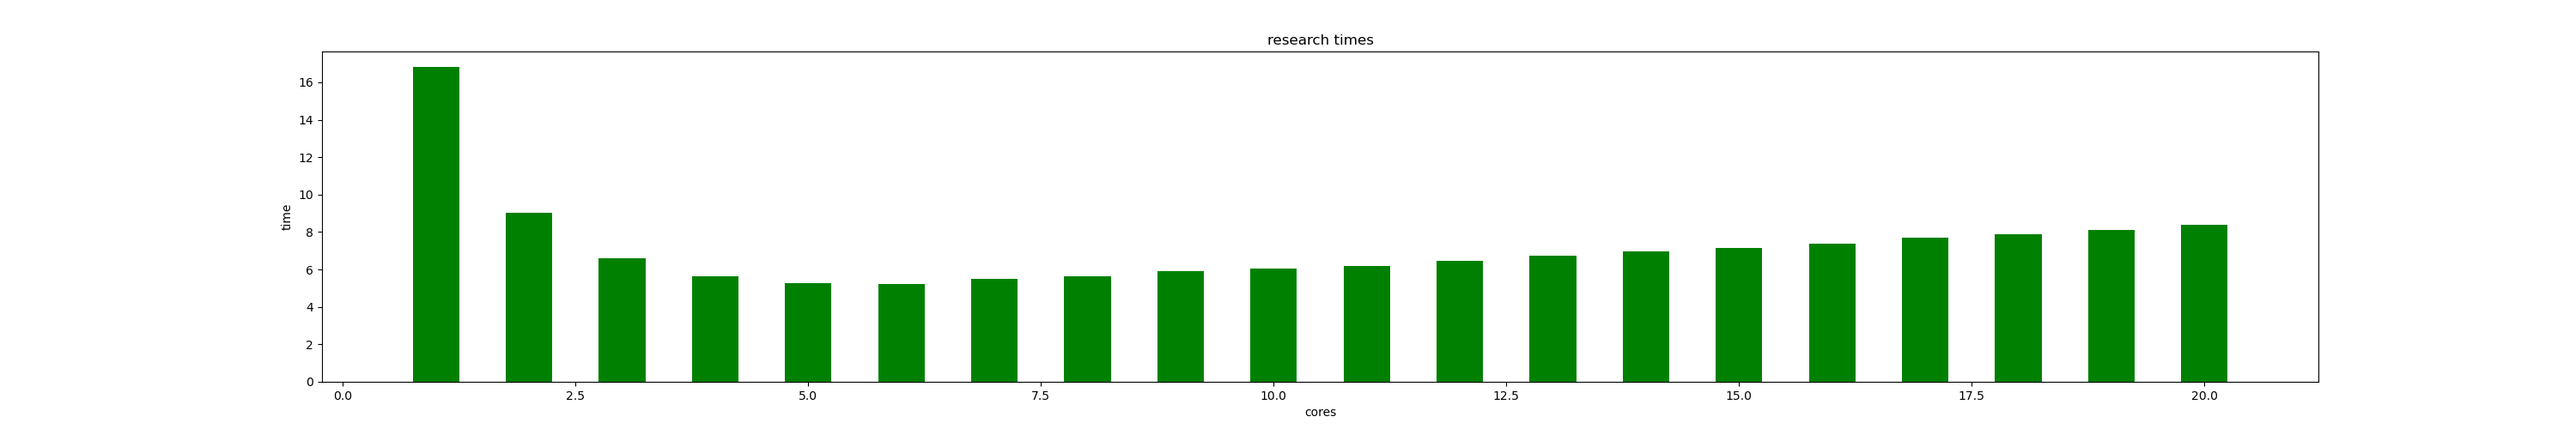
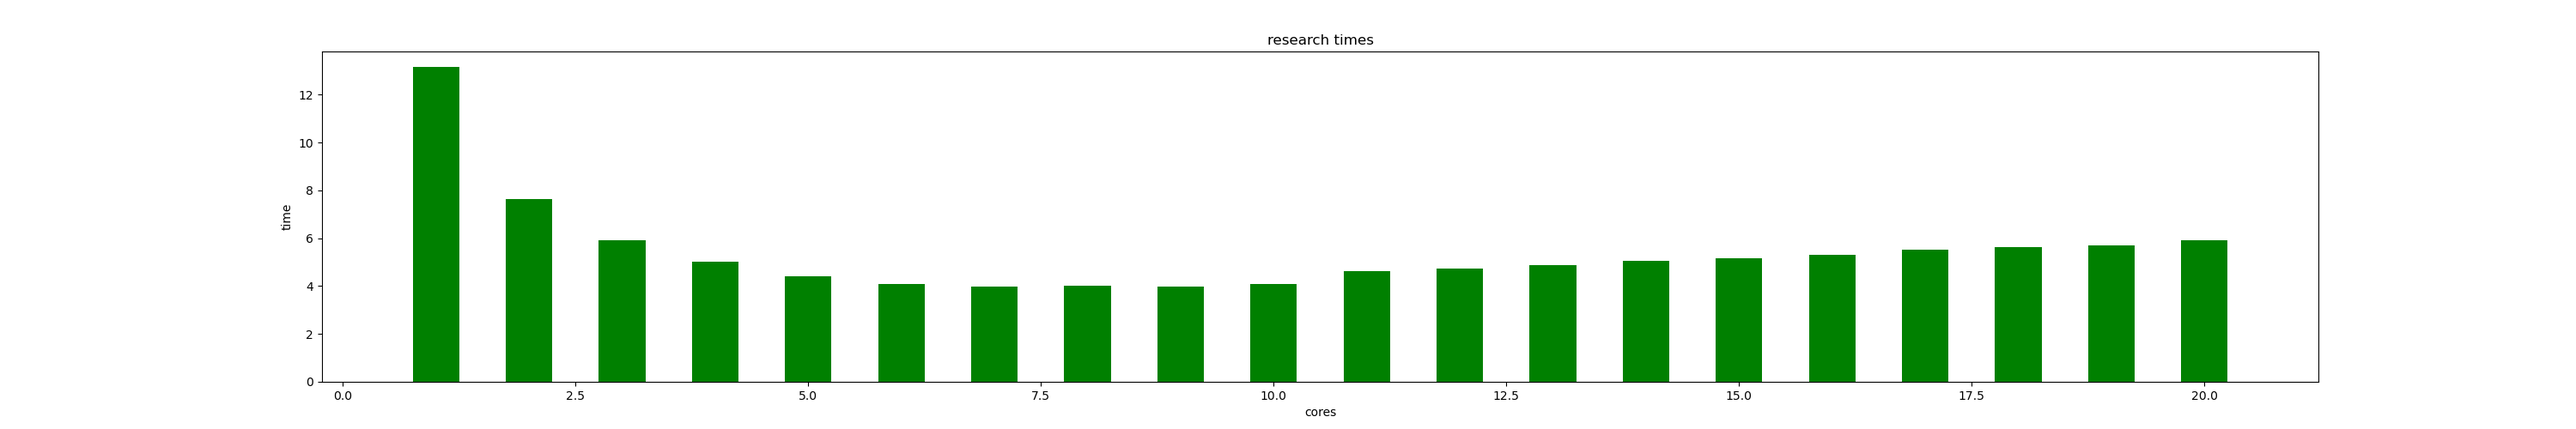
все реализовано, но не все как хотелось

diff --git a/window.py b/window.py
@@ -5,10 +5,11 @@ from PyQt5.QtWidgets import (
     QDesktopWidget,
     QProgressBar)
 from PyQt5.QtGui import (QIcon, QFont, QPixmap)
-from PyQt5.QtCore import QBasicTimer
+from PyQt5.QtCore import QBasicTimer, QTimerEvent
 from PyQt5 import QtCore
 import functions as f
 import cv2
+import numpy as np
 
 flag = 0
 
@@ -23,10 +24,11 @@ class Window(QMainWindow):
         """функция работы окна
         """    
         self.info_message = QLabel(self)
-        self.info_card_num = QLabel(f'Информация о карте: ******-******-{f.data["last_num"]}', self)
+        self.info_card_num = QLabel(f'Информация о карте: ************{f.data["last_num"]}', self)
         self.image_bar = QLabel(self)
         self.btn_create_bar = QPushButton('Построить график', self)
         self.btn_card_num = QPushButton('Найти номер карты', self)
+        self.btn_luna = QPushButton('Алгоритм Луна', self)
         self.pbar = QProgressBar(self)
         self.timer = QBasicTimer()
         self.step = 0
@@ -46,7 +48,7 @@ class Window(QMainWindow):
         """
         self.w = 900
         self.h = 500
-        self.info_message.setGeometry(0, 200, self.w, 300)
+        self.info_message.setGeometry(0, 0, self.w, self.h)
         self.info_message.setFont(QFont('Arial', 12))
         self.info_message.setAlignment(QtCore.Qt.AlignCenter)
         
@@ -54,7 +56,7 @@ class Window(QMainWindow):
         self.info_card_num.setFont(QFont('Arial', 12))
         self.info_card_num.setAlignment(QtCore.Qt.AlignLeft)
         
-        self.pbar.setGeometry(self.w/2, self.h/2, 200, 25)
+        self.pbar.setGeometry(310, 125, 310, 40)
         self.pbar.close()
 
         self.btn_x_size = 300
@@ -74,6 +76,12 @@ class Window(QMainWindow):
         self.btn_create_bar.setFont(self.btn_font_main)
         self.btn_create_bar.setStyleSheet(self.btn_StyleSheet_main)
         self.btn_create_bar.clicked.connect(self.create_bar)
+        
+        self.btn_luna.setGeometry(2 * self.btn_x_size + self.luft + 10, 0,
+                                     self.btn_x_size, self.btn_y_size)
+        self.btn_luna.setFont(self.btn_font_main)
+        self.btn_luna.setStyleSheet(self.btn_StyleSheet_main)
+        self.btn_luna.clicked.connect(self.alg_luna)
 
     def center(self) -> None:
         """функция централизации окна на экране
@@ -95,15 +103,44 @@ class Window(QMainWindow):
         self.info_message.show()
     
     def card_num(self) -> None:
+        self.print_info_message('Идет поиск')
         self.info_card_num.setText(f'Информация о карте: {f.find_card_num()}')
+        self.info_message.close()
         
+    def alg_luna(self) -> None:
+        card_num = f.find_card_num()
+        self.info_card_num.setText(f'Информация о карте: {card_num}')
+        if f.algorithm_luna(card_num) == True:
+            self.print_info_message('Номер карты валидный')
+        else:
+            self.print_info_message('Номер карты не прошел проверку алгоритмом Луна')
+    
     def create_bar(self) -> None:
-        #f.create_bar(f.time_research())
+        #self.pbar.show()
+        self.print_info_message('Идут исследования')
+        if not self.timer.isActive():
+            self.timer.start(100, self)
+        research_times = np.zeros(shape=0)
+        for c in range(1, 21):
+            research_times = np.append(research_times,  f.time_research(c))
+            self.update_pbar
+                
+        f.create_bar(research_times)
+        
         im = cv2.imread("researches.png", cv2.IMREAD_ANYCOLOR)
         cv2.imshow("researches", im)
+        self.card_num
+        self.info_message.close()
         # im = QPixmap('researches.png')
         # self.image_bar.clear()
         # self.image_bar.setPixmap(im)
         # self.image_bar.adjustSize()
         # self.image_bar.move(0, 200)
         # self.image_bar.show()
+        
+    def update_pbar(self) -> None:
+        if self.step >= 100:
+            self.timer.stop()
+            return
+        self.step += 5
+        self.pbar.setValue(self.step)

diff --git a/functions.py b/functions.py
@@ -28,23 +28,20 @@ def find_card_num() -> str:
             if result != False:
                 print(f'Number of card: {result[0]}-{result[1]}-{data["last_num"]}')
                 p.terminate()
-                return (str(f'{result[0]}-{result[1]}-{data["last_num"]}'))
+                return (str(f'{result[0]}{result[1]}{data["last_num"]}'))
                 
     
-def time_research() -> np.ndarray:
-    research_times = np.zeros(shape=0)
-    for c in range(1, 21):  
-        start = time.time() 
-        with mp.Pool(processes = c) as p:
-            for result in p.map(check_hash, range(0, 1000000)):
-                if result != False:
-                    end = time.time()
-                    research_times = np.append(research_times,  end - start)
-                    #logging.info(f'Number of card: {result}, cores = {c}')
-                    print(f'Number of card: {result[0]}-{result[1]}-{data["last_num"]}, cores = {c}')
-                    p.terminate()
-                    break
-    return research_times
+def time_research(c: int) -> float:
+    start = time.time() 
+    with mp.Pool(processes = c) as p:
+        for result in p.map(check_hash, range(0, 1000000)):
+            if result != False:
+                end = time.time()
+                #logging.info(f'Number of card: {result}, cores = {c}')
+                print(f'Number of card: {result[0]}{result[1]}{data["last_num"]}, cores = {c}')
+                p.terminate()
+                return end - start
+    return start - time.time()
 
 def create_bar(times: np.ndarray) -> None:
     x = np.arange(1, 21, step=1)
@@ -54,3 +51,20 @@ def create_bar(times: np.ndarray) -> None:
     plt.title('research times')
     plt.bar(x, times, color='green', width = 0.5) 
     plt.savefig('researches.png')
+    
+def algorithm_luna(number: str) -> bool:
+    number = int(number)
+    summ = 0
+    i = 16
+    while i >= 1:
+        n = number % 10
+        if i%2 != 0:
+            n *= 2
+            if n >= 10:
+                n -= 9
+        summ += n
+        number //= 10
+        i -= 1
+    if summ % 10 == 0:
+        return True
+    else: return False

diff --git a/oib-laba-4.py b/oib-laba-4.py
@@ -2,6 +2,7 @@
 import sys
 from PyQt5.QtWidgets import (QApplication)
 from window import Window
+import functions as f
 
 if __name__ == '__main__':
     #logging.basicConfig(level=logging.INFO, filename='logs.log', filemode='w')
@@ -9,6 +10,7 @@ if __name__ == '__main__':
     # cores = mp.cpu_count()
     # research_times = f.time_research()
     # f.create_bar(research_times, cores)
+
     app = QApplication(sys.argv)
     ex = Window()
     sys.exit(app.exec_())
